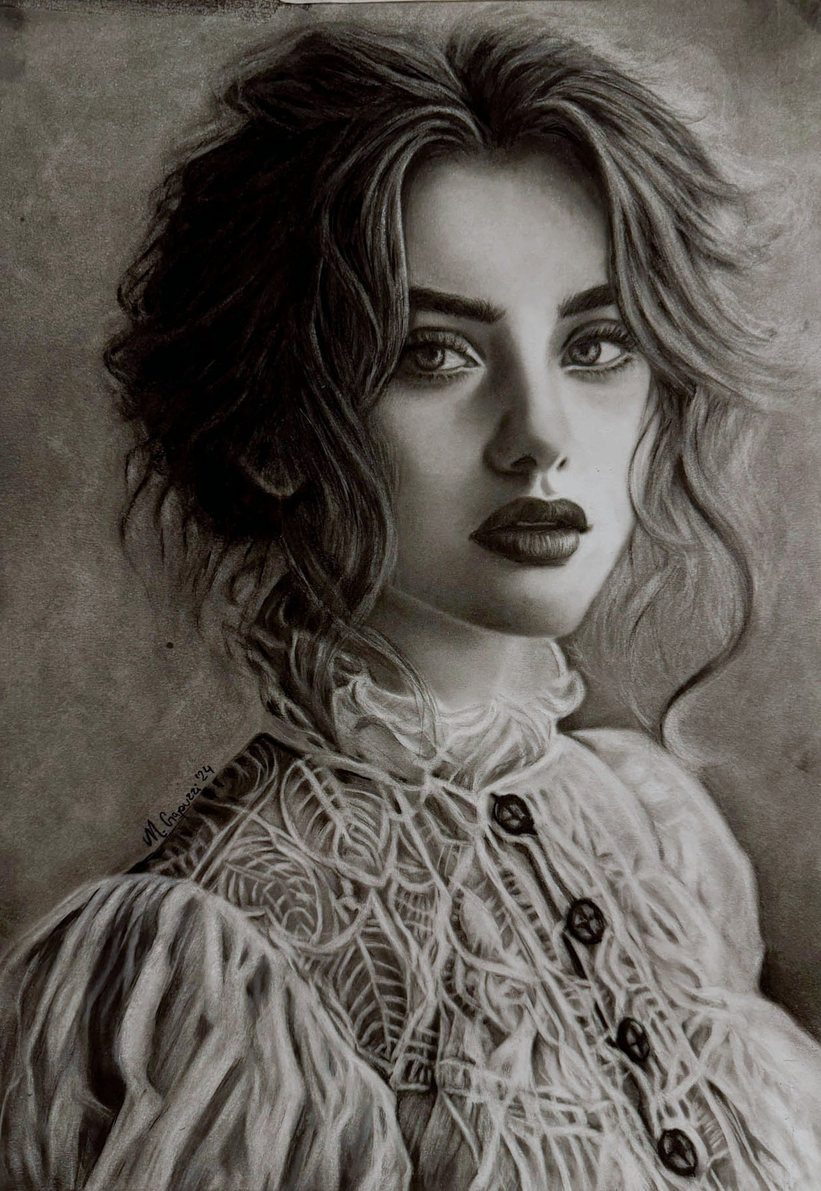
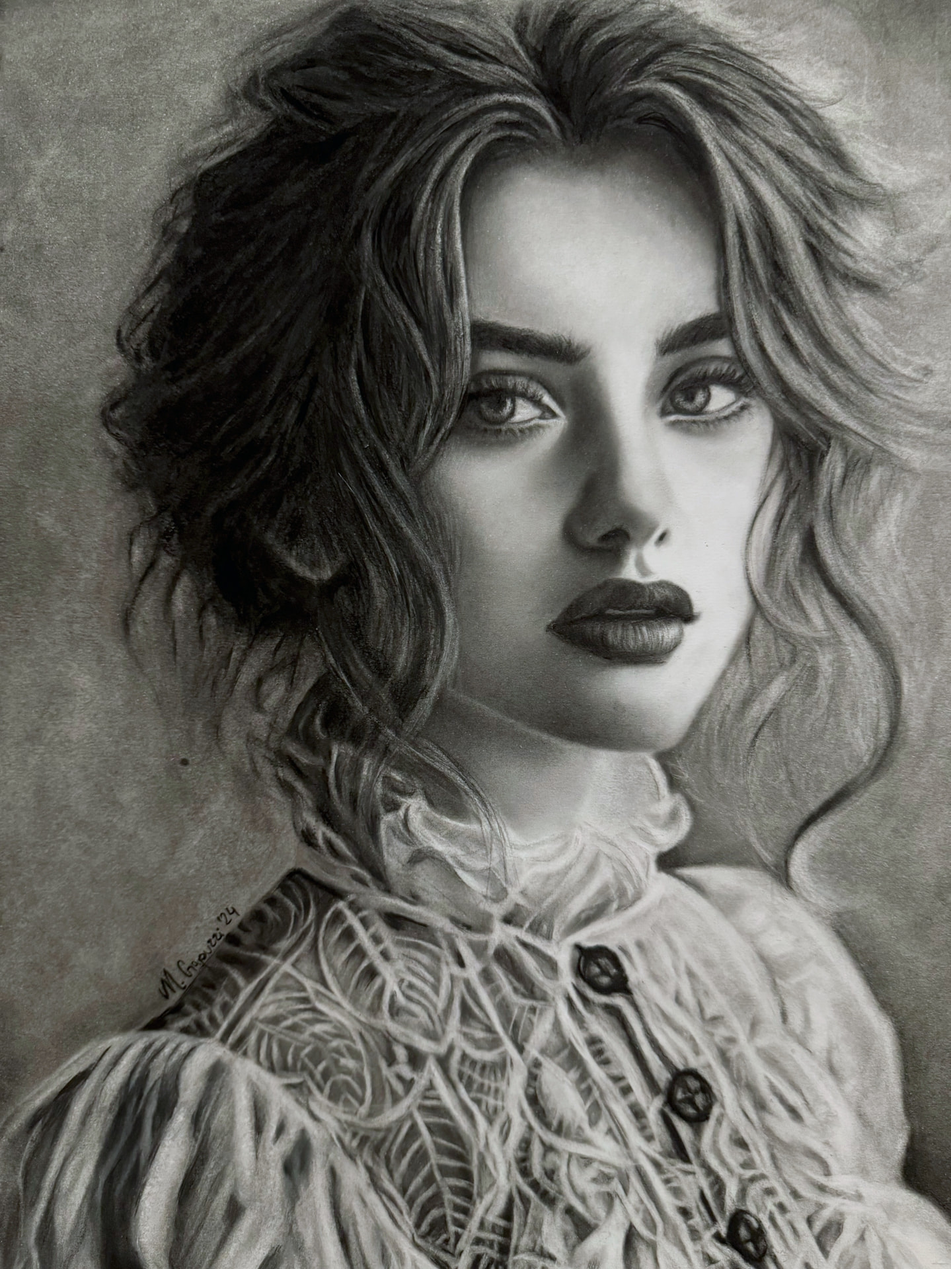
fix: the phone gets readable type, room to breathe, and two new plates
TWO NEW PLATES. Oltre lo Sguardo and Materia arrive as the real source
scans — 3066x4092 and 2583x3515 rather than the ~1250px files the site
was serving. Both still carried the warm cast the client asked to remove,
around R−B 23, so each comes down to 1920 tall and through a per-channel
levels stretch derived from its own histogram. Oltre lands at 6.4 and
Materia at −0.3, which is neutral. Compared before and after by eye: more
detail, more paper, no sepia, nothing damaged. The two ORIGINAL files are
removed from public/ — at 2-3MB each they would have been served.

MOBILE TYPE FLOORS, in a max-width: 767px block rather than in the scale
itself, so a wide screen is untouched. Labels go 10px to 12, captions 12
to 13, secondary text 14 to 15. Those are the sizes a phone reader spends
their time in and they were bottoming out below what the design intends.

TOUCH TARGETS: both action utilities get a 44px floor — the framed button
already measured about 43 — and the hamburger goes from 40 to 44.

THE HOME HERO sits low in the frame on a phone, over the dark field the
photograph carries at its foot, leaving the top to Mariela and the
drawing. Done with bottom padding at two widths rather than a fixed
offset, so it moves with the screen instead of being tuned for one
handset. The gap under the flagship slider comes down from mt-3xl to
mt-xl, about a third, because the slider's own arrows already sit there.
[…]

diff --git a/src/components/about/AboutBanner.tsx b/src/components/about/AboutBanner.tsx
@@ -25,15 +25,16 @@ interface AboutBannerProps {
  * 4.8:1 on it and near-black at 3.9:1, so the intuition — pale wall, dark
  * type — is the wrong way round.
  *
- * ON A PHONE the text sits **on** the photograph, not after it.
+ * ON A PHONE the photograph keeps the top of the block and the words go under
+ * it, on the section's own ground.
  *
- * It used to run underneath: the picture ended, then the name started, and the
- * two read as unrelated blocks stacked by accident. Now the photograph is the
- * background of the whole block, the text begins over its lower half, and
- * where the biography runs past the bottom of the image the section's own
- * ground carries it to the end. A gradient does the handover, so there is no
- * visible line where the picture stops — which is what keeps it reading as one
- * composition rather than as an image with a box under it.
+ * Overlaying them was tried twice and does not work at this width. The text
+ * had to start past her face and hands, which left it in the last third of the
+ * frame, compressed, and small enough to be uncomfortable — a name, a role and
+ * two paragraphs of biography do not fit in a strip. Reading beats atmosphere
+ * here: the picture is clean, the biography is at its real size, and a
+ * gradient carries the photograph into the ground beneath it so the two still
+ * read as one piece rather than as an image with a card under it.
  */
 export function AboutBanner({ banner }: AboutBannerProps) {
   return (
@@ -53,7 +54,12 @@ export function AboutBanner({ banner }: AboutBannerProps) {
         past it; in normal flow from `lg`, where it sets the height of the
         block and the text is what floats.
       */}
-      <div className="absolute inset-x-0 top-0 h-[80svh] lg:static lg:h-auto">
+      {/*
+        In normal flow on a phone, so the words follow the picture instead of
+        sitting on it; absolute from `lg`, where the bare wall on the right of
+        the frame is wide enough to hold them.
+      */}
+      <div className="relative lg:absolute lg:inset-x-0 lg:top-0 lg:h-auto">
         <picture>
           <source media="(min-width: 1024px)" srcSet={banner.src} />
           <img
@@ -62,18 +68,19 @@ export function AboutBanner({ banner }: AboutBannerProps) {
             /* The first thing under the opening, so it is worth fetching early. */
             fetchPriority="high"
             decoding="async"
-            className="h-full w-full object-cover object-[52%_28%] lg:aspect-[1920/750] lg:h-auto lg:object-center"
+            className="aspect-[4/5] w-full object-cover object-[52%_22%] lg:aspect-[1920/750] lg:object-center"
           />
         </picture>
 
         {/*
-          The handover. On a phone the picture fades into the section's ground
-          over its bottom third, so the text crosses from one to the other
-          without a seam. Off from `lg`, where the wash below does that job.
+          The handover. The picture fades into the section's ground over its
+          bottom quarter, so there is no line where it stops and the text below
+          reads as the same piece. Off from `lg`, where the wash to the right
+          does that job instead.
         */}
         <div
           aria-hidden="true"
-          className="pointer-events-none absolute inset-x-0 bottom-0 h-1/2 bg-gradient-to-t from-ink via-ink/70 via-40% to-transparent lg:hidden"
+          className="pointer-events-none absolute inset-x-0 bottom-0 h-1/4 bg-gradient-to-t from-ink via-ink/60 via-45% to-transparent lg:hidden"
         />
       </div>
 
@@ -89,16 +96,13 @@ export function AboutBanner({ banner }: AboutBannerProps) {
       {/*
         The type.
 
-        On a phone it begins 58svh down — past her face and her hands, which
-        at 34svh and again at 46svh it was sitting across — and runs on into
-        the ground below it. The picture grows to 80svh so there is still
-        photograph under the
-        opening lines rather than the name landing on the seam. From `lg` it
+        On a phone it follows the picture on the section's own ground, at the
+        size the biography deserves. From `lg` it
         is centred in the band, in columns 9-12 of the page's own grid, which
         on a 1920 screen starts it at 61% of the viewport: inside the clear
         zone, and on the same axis as every other section of the site.
       */}
-      <div className="relative pb-2xl pt-[58svh] lg:absolute lg:inset-0 lg:flex lg:items-center lg:py-0 lg:pt-0">
+      <div className="relative -mt-lg pb-2xl lg:absolute lg:inset-0 lg:mt-0 lg:flex lg:items-center lg:py-0">
         <Container width="wide" className="w-full">
           <div className="lg:grid lg:grid-cols-12">
             <div className="lg:col-span-4 lg:col-start-9">
@@ -117,7 +121,7 @@ export function AboutBanner({ banner }: AboutBannerProps) {
               <div className="mt-lg flex flex-col gap-md">
                 {banner.bio.map((paragraph, i) => (
                   <Reveal key={i} delay={200 + i * 100}>
-                    <p className="max-w-[46ch] font-sans text-sm leading-relaxed text-pretty text-fg">
+                    <p className="max-w-[46ch] font-sans text-base leading-relaxed text-pretty text-fg lg:text-sm">
                       {paragraph}
                     </p>
                   </Reveal>

diff --git a/src/app/obra/[slug]/page.tsx b/src/app/obra/[slug]/page.tsx
@@ -93,9 +93,20 @@ export default async function WorkPage({ params }: PageProps<"/obra/[slug]">) {
         <WorkSheet work={work} />
       </Section>
 
-      {/* The composition. Everything here comes from the work's own story. */}
+      {/*
+        The composition. Everything here comes from the work's own story.
+
+        `pb-lg` on a phone: at py-2xl the last block — a video, on El Rescate —
+        was followed by nearly two hundred pixels of nothing before the closing
+        question, which reads as a section that failed to load rather than as
+        breathing room. The wide layout keeps its own rhythm.
+      */}
       {work.story && work.story.length > 0 ? (
-        <Section ground="paper" rhythm="tight" className="overflow-hidden">
+        <Section
+          ground="paper"
+          rhythm="tight"
+          className="overflow-hidden pb-lg sm:pb-2xl"
+        >
           <WorkComposition blocks={work.story} />
         </Section>
       ) : null}
@@ -193,7 +204,13 @@ export default async function WorkPage({ params }: PageProps<"/obra/[slug]">) {
         The ask. Two lines and two links — the page is a work, not a listing,
         and the invitation closes it rather than running through it.
       */}
-      <Section ground="paper" rhythm="act" aria-labelledby="consulta-titulo">
+      <Section
+        ground="paper"
+        rhythm="act"
+        aria-labelledby="consulta-titulo"
+        /* The other half of the same gap — see the note above. */
+        className="pt-lg sm:pt-4xl"
+      >
         <Container width="wide">
           <Rule width="full" />
 

diff --git a/src/app/globals.css b/src/app/globals.css
@@ -325,6 +325,9 @@
 @utility action-frame {
   position: relative;
   isolation: isolate;
+  /* A comfortable target under a thumb. The frame already measured about
+     43px; this guarantees 44 without changing how it looks. */
+  min-height: 2.75rem;
   /* A control should say so under the pointer. `<button>` does not do this on
      its own, and neither does an anchor styled as one. */
   cursor: pointer;
@@ -366,6 +369,9 @@
 
 @utility action-line {
   cursor: pointer;
+  display: inline-flex;
+  align-items: center;
+  min-height: 2.75rem;
   position: relative;
   display: inline-block;
   padding-bottom: 0.5rem;
@@ -436,5 +442,28 @@
 
   button:disabled {
     cursor: not-allowed;
+  }
+}
+
+/*
+ * Mobile type floors.
+ *
+ * The fluid scale is tuned for a wide screen and bottoms out small: labels at
+ * 10px, captions at 12, secondary text at 14. On a phone those are the sizes
+ * the reader spends most of their time in, and they were being asked to work
+ * harder than the design intends.
+ *
+ * Raised here rather than in the scale itself so a wide screen is untouched —
+ * the caps are where they were, and this only lifts the bottom of the range on
+ * the widths that were actually hitting it.
+ */
+@media (max-width: 767px) {
+  :root {
+    /* Labels, eyebrows, buttons: 10px -> 12px. */
+    --text-2xs: 0.75rem;
+    /* Captions and legal text: 12px -> 13px. */
+    --text-xs: 0.8125rem;
+    /* Secondary body, specifications, form help: 14px -> 15px. */
+    --text-sm: 0.9375rem;
   }
 }

diff --git a/src/components/home/Hero.tsx b/src/components/home/Hero.tsx
@@ -75,7 +75,19 @@ export function Hero({ content }: HeroProps) {
         the lioness. Centred again from `sm`, where the band is wide and the
         type has a column of its own.
       */}
-      <div className="absolute inset-0 flex items-end pb-2xl pt-32 sm:items-center sm:pb-0">
+      {/*
+        On a phone the block sits low in the frame, over the dark field the
+        photograph carries at its foot, and the top of the picture is left to
+        Mariela and the drawing.
+
+        `pb` rather than a fixed offset, so it moves with the screen instead of
+        being tuned for one handset: `pb-lg` at 320px where every pixel of
+        height is contested, `pb-md` from `xs` up where there is room to let it
+        sit lower still. Between them the block lands roughly 50-70px further
+        down than it did at `pb-2xl`, which is what the correction asked for,
+        and it keeps clear of the bottom edge at both ends of the range.
+      */}
+      <div className="absolute inset-0 flex items-end pb-lg pt-32 min-[380px]:pb-md sm:items-center sm:pb-0">
         <Container width="wide" className="w-full">
           {/*
             Measured in rem, not in `ch`.

diff --git a/src/content/works.ts b/src/content/works.ts
@@ -214,8 +214,8 @@ export const works: Work[] = [
     image: {
       src: "/obra/oltre-lo-sguardo/principal.jpg",
       alt: "Carboncillo de una mujer joven de cabello ondulado y blusa de encaje de cuello alto, sosteniendo la mirada hacia quien observa.",
-      width: 1242,
-      height: 1802,
+      width: 1439,
+      height: 1920,
     },
     detailImages: [
       {
@@ -288,8 +288,8 @@ export const works: Work[] = [
     image: {
       src: "/obra/materia/principal.jpg",
       alt: "Carboncillo de un hombre de perfil con rastas largas y chaqueta de jean, la mirada dirigida fuera del encuadre.",
-      width: 1267,
-      height: 1751,
+      width: 1411,
+      height: 1920,
     },
     shortStory: "Algunas imágenes se sienten antes de comprenderse.",
     longStory: [

diff --git a/src/app/page.tsx b/src/app/page.tsx
@@ -82,7 +82,14 @@ export default async function HomePage() {
         </div>
 
         <Container width="wide">
-          <Reveal className="mt-3xl flex justify-center">
+          {/*
+            `mt-xl` on a phone, `mt-3xl` from `sm`. The slider's own arrows sit
+            directly above this button, so on a narrow screen the gap read as a
+            missing section rather than as breathing room — about a third less,
+            which is what the correction asked for, and the wide layout keeps
+            the space it was designed with.
+          */}
+          <Reveal className="mt-xl flex justify-center sm:mt-3xl">
             <ActionButton href="/obra">Ver todas las obras</ActionButton>
           </Reveal>
         </Container>

diff --git a/src/app/encargos/page.tsx b/src/app/encargos/page.tsx
@@ -133,6 +133,14 @@ export default async function CommissionsPage() {
         ground="paper-bright"
         rhythm="act"
         aria-labelledby="cotizar-titulo"
+        /*
+          There is only one "Cotizar un encargo" on this page — the reading of
+          two consecutive calls to action came from the gap, not from the
+          markup. The banner closes with the button and this section opened
+          112px below it, so the button looked stranded and the form looked
+          like a second ask. Tightened on a phone only.
+        */
+        className="pt-xl sm:pt-4xl"
       >
         <Container width="wide">
           <div className="grid gap-2xl lg:grid-cols-12 lg:gap-x-[4vw]">

diff --git a/src/components/layout/SiteHeader.tsx b/src/components/layout/SiteHeader.tsx
@@ -262,7 +262,7 @@ export function SiteHeader({
             onClick={() => setMenuOpen((open) => !open)}
             aria-expanded={menuOpen}
             aria-controls="menu-movil"
-            className="-mr-2 flex h-10 w-10 items-center justify-center md:hidden"
+            className="-mr-2 flex h-11 w-11 items-center justify-center md:hidden"
           >
             <span className="sr-only">
               {menuOpen ? "Cerrar el menú" : "Abrir el menú"}
